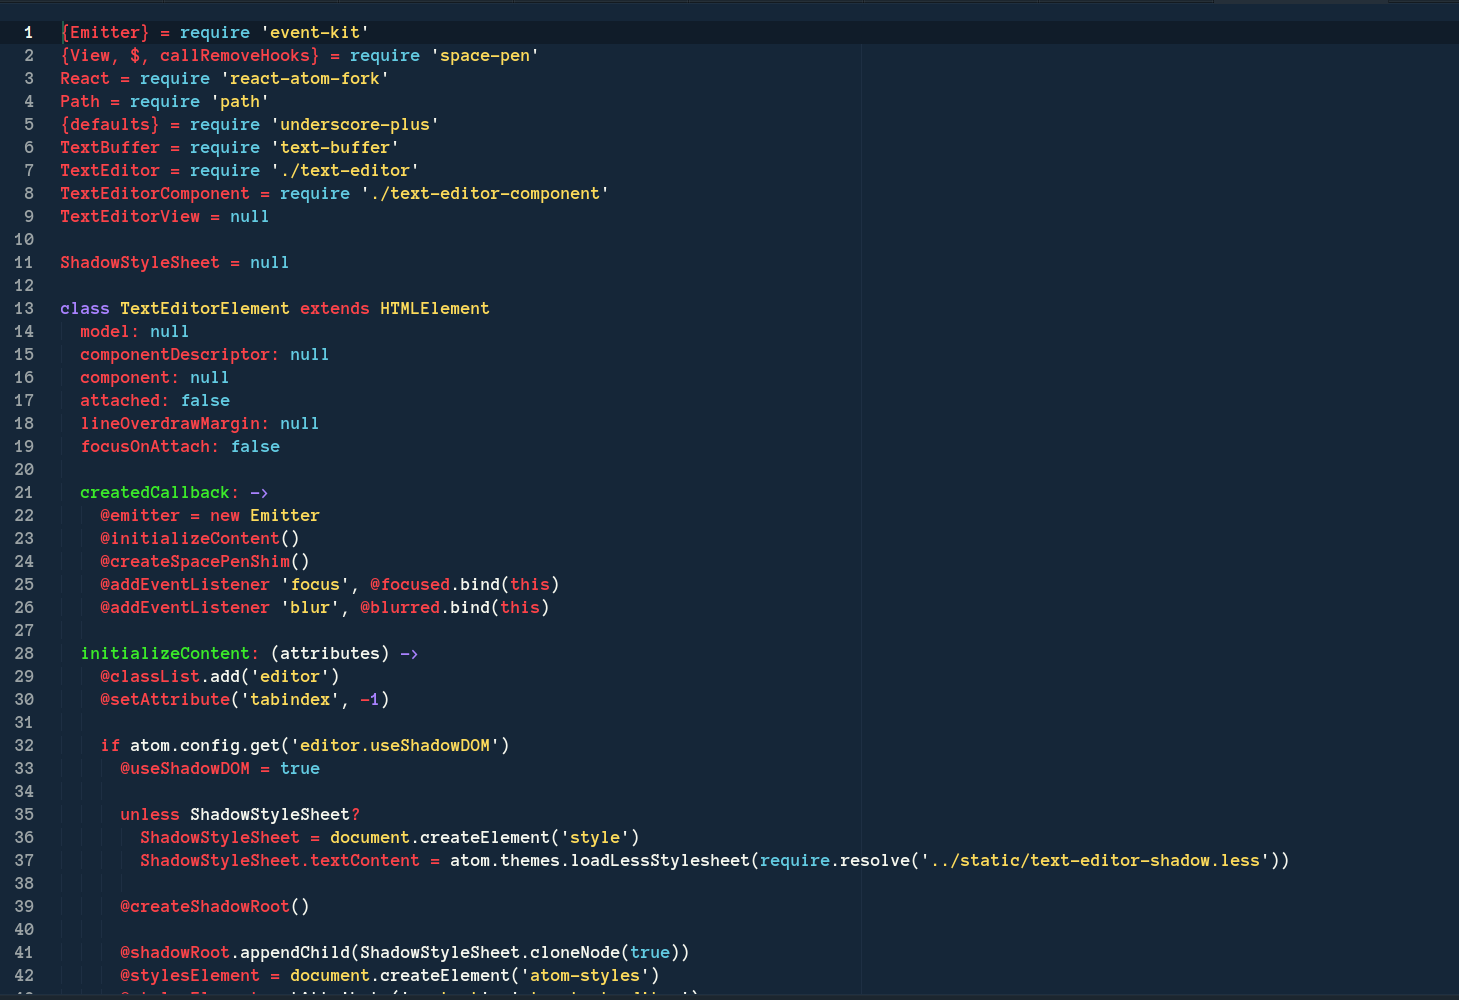
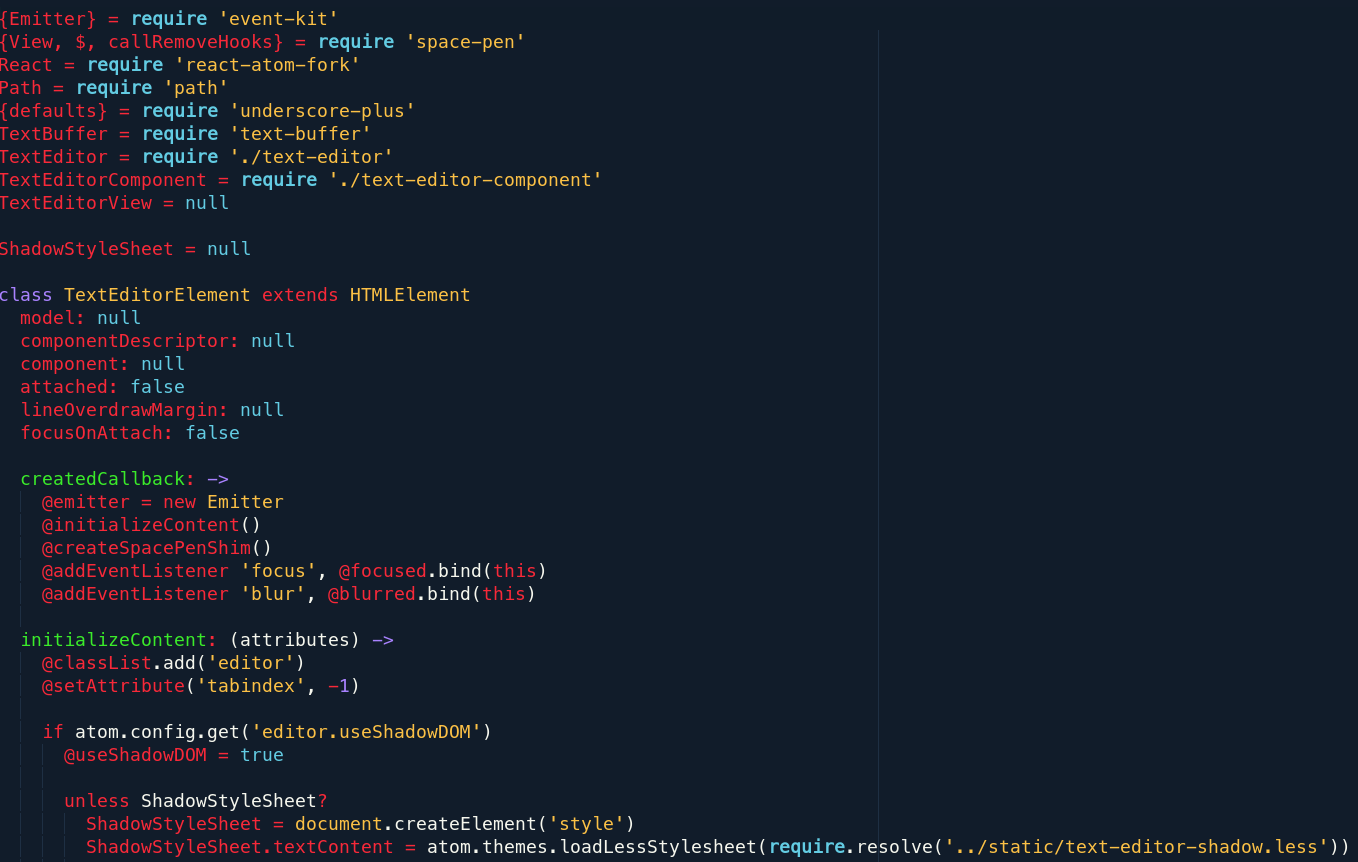
Better colors and selected color.

Changed region(s): [[0.0, 0.0, 0.9897, 0.9954], [0.0, 0.9652, 0.0309, 0.9954]]

diff --git a/stylesheets/base.less b/stylesheets/base.less
@@ -61,35 +61,35 @@
 }
 
 .punctuation.definition.string, .punctuation.definition.variable, .punctuation.definition.string, .punctuation.definition.parameters, .punctuation.definition.string, .punctuation.definition.array {
-  color: #f6f7ee;
+  color: #fcc146;
 }
 
 .none {
-  color: #fc4349;
+  color: #f82939;
 }
 
 .keyword.operator {
-  color: #fc4349;
+  color: #f82939;
 }
 
 .keyword {
-  color: #fc4349;
+  color: #f82939;
 }
 
 .variable {
-  color: #fc4349;
+  color: #f82939;
 }
 
 .entity.name.function, .meta.require, .support.function.any-method {
-  color: #3beb29;
+  color: #3beb2a;
 }
 
 .support.class, .entity.name.class, .entity.name.type.class, .meta.class {
-  color: #fddb5b;
+  color: #fcc146;
 }
 
 .keyword.other.special-method {
-  color: #fc4349;
+  color: #f82939;
 }
 
 .storage {
@@ -102,7 +102,7 @@
 }
 
 .string, .constant.other.symbol, .entity.other.inherited-class {
-  color: #fddb5b;
+  color: #fcc146;
 }
 
 .constant.numeric {
@@ -122,11 +122,11 @@
 }
 
 .entity.name.tag {
-  color: #fc4349;
+  color: #f82939;
 }
 
 .entity.other.attribute-name {
-  color: #3beb29;
+  color: #f6f7ee;
 }
 
 .entity.other.attribute-name.id, .punctuation.definition.entity {
@@ -138,7 +138,7 @@
 }
 
 .none {
-  color: #fddb5b;
+  color: #fcc146;
 }
 
 .markup.heading .punctuation.definition.heading, .entity.name.section {
@@ -146,17 +146,17 @@
 }
 
 .keyword.other.unit {
-  color: #fc4349;
+  color: #a982ff;
 }
 
 .markup.bold, .punctuation.definition.bold {
   font-weight: bold;
-  color: #fc4349;
+  color: #f82939;
 }
 
 .markup.italic, .punctuation.definition.italic {
   font-style: italic;
-  color: #fddb5b;
+  color: #fcc146;
 }
 
 .markup.raw.inline {
@@ -189,7 +189,7 @@
 }
 
 .markup.deleted {
-  color: #fc4349;
+  color: #f82939;
 }
 
 .markup.changed {
@@ -205,7 +205,7 @@
 }
 
 .constant.character.escape {
-  color: #fc4349;
+  color: #f82939;
 }
 
 .punctuation.section.embedded, .variable.interpolation {
@@ -214,12 +214,12 @@
 
 .invalid.illegal {
   color: #eff1f5;
-  background-color: #fc4349;
+  background-color: #f82939;
 }
 
 .invalid.broken {
   color: #2b303b;
-  background-color: #fddb5b;
+  background-color: #fcc146;
 }
 
 .invalid.deprecated {
@@ -230,4 +230,8 @@
 .invalid.unimplemented {
   color: #eff1f5;
   background-color: #5a6068;
+}
+
+.property-name {
+  color: #3beb2a;
 }

diff --git a/stylesheets/syntax-variables.less b/stylesheets/syntax-variables.less
@@ -4,8 +4,8 @@
 // General colors
 @syntax-text-color: #f6f7ee;
 @syntax-cursor-color: #a982ff;
-@syntax-selection-color: #fecb57;
-@syntax-background-color: #152638;
+@syntax-selection-color: #115FA5;
+@syntax-background-color: #111c2a;
 
 // Guide colors
 @syntax-wrap-guide-color: #1e2f43;

diff --git a/CHANGELOG.md b/CHANGELOG.md
@@ -1,1 +1,3 @@
+## 0.2.0 - Polished syntax colors.
+
 ## 0.1.0 - First Release
